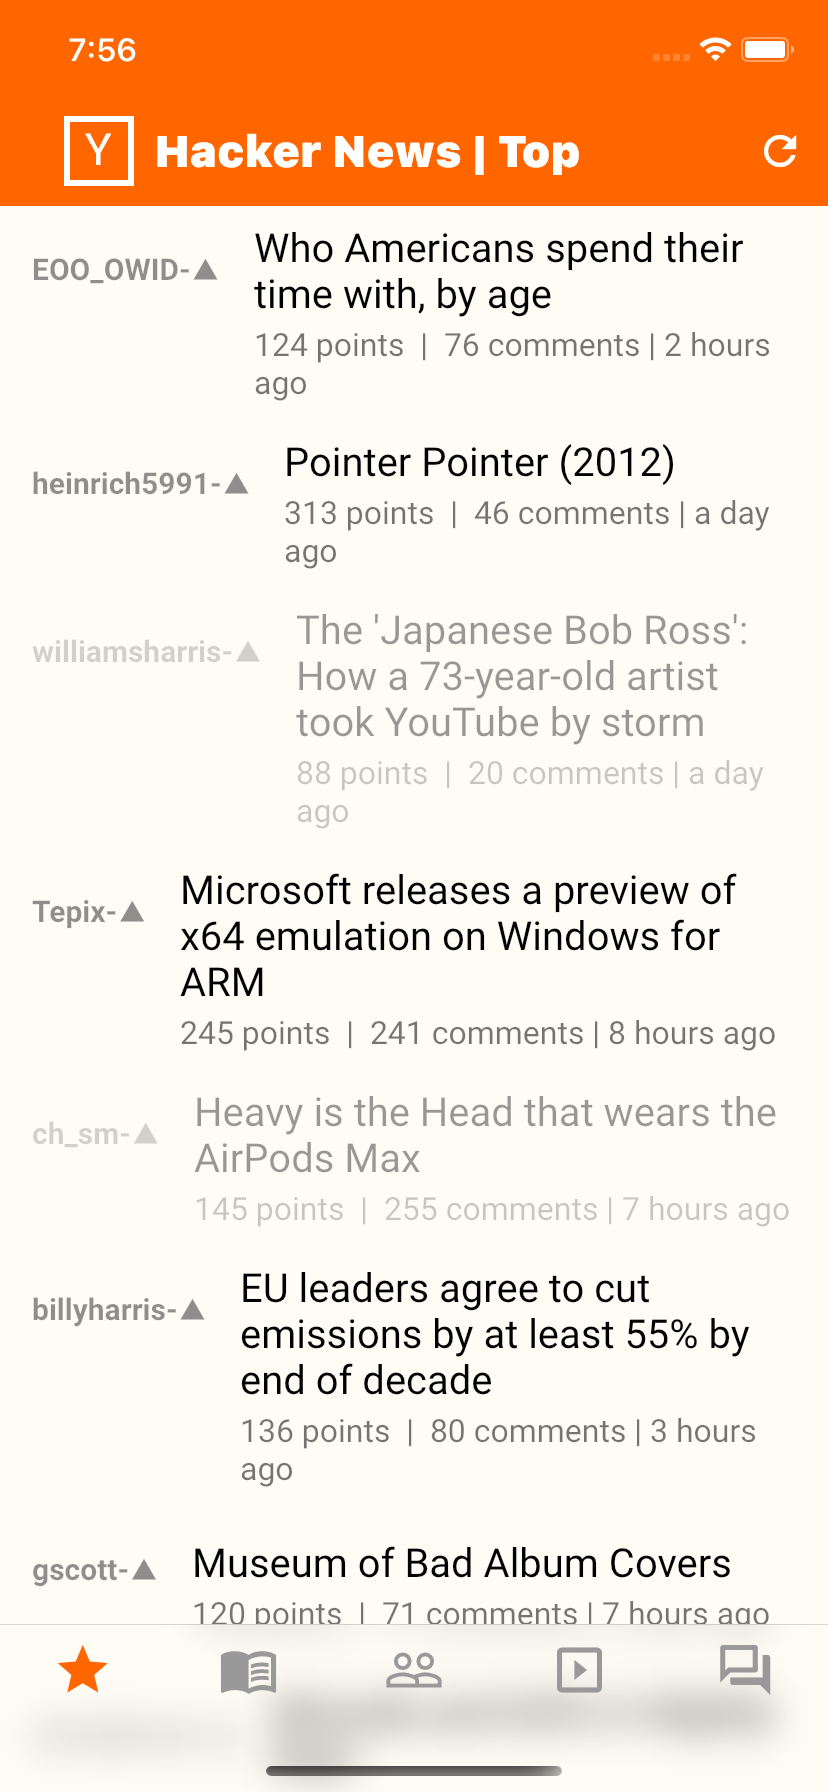
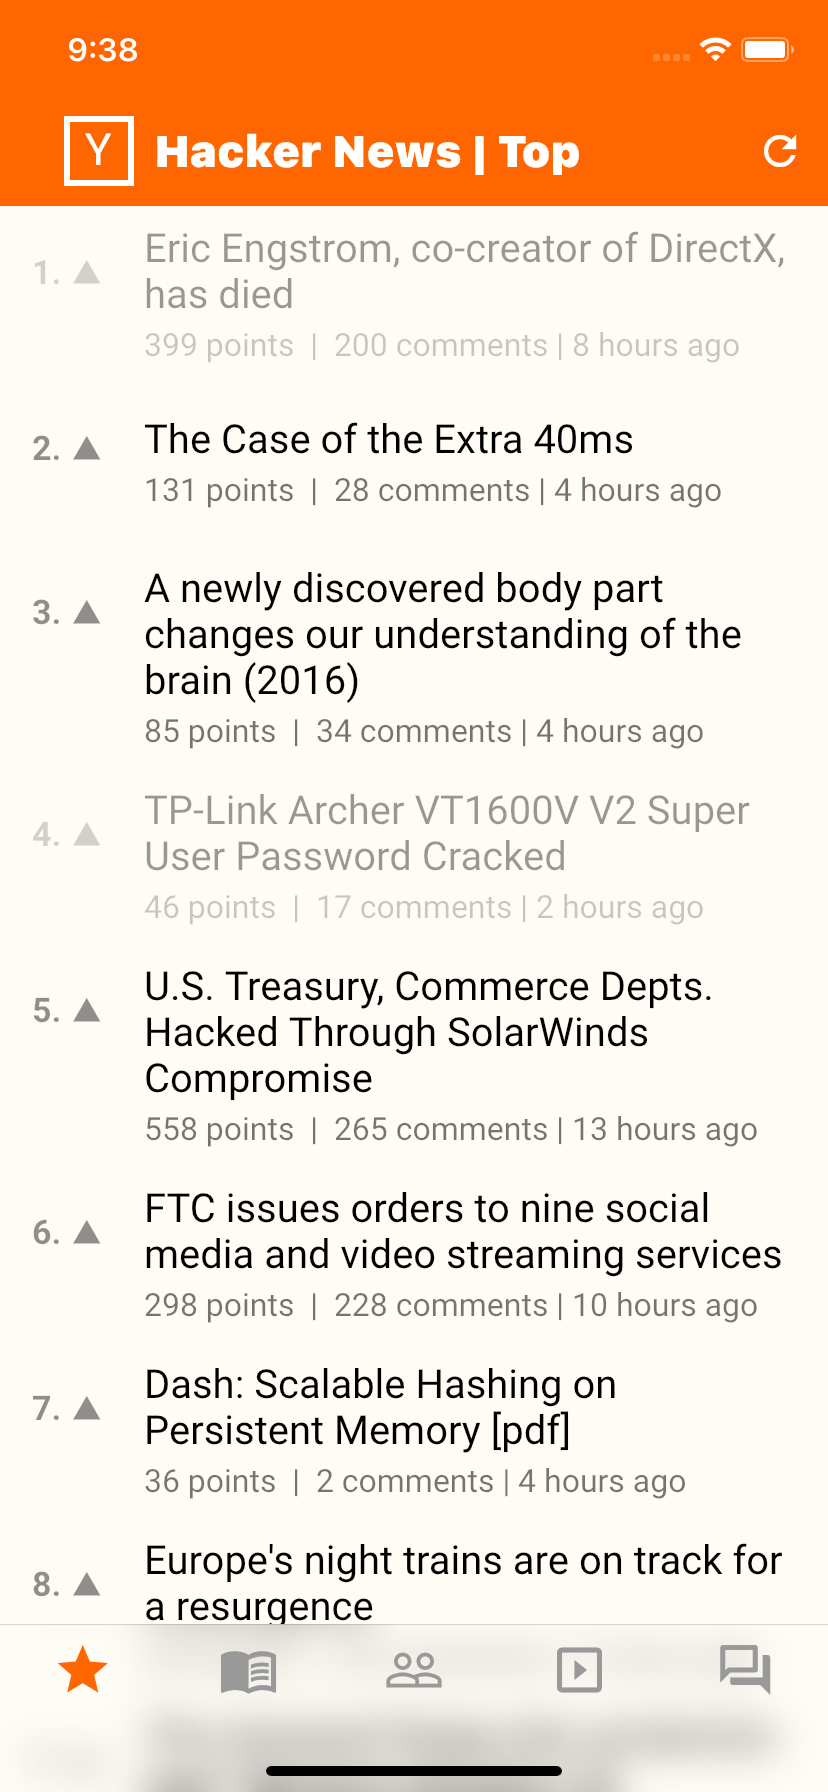
new's number index added

diff --git a/lib/view/widgets/new_card.dart b/lib/view/widgets/new_card.dart
@@ -8,10 +8,12 @@ import 'package:hackernews/core/model/news_item.dart';
 
 class CustomNewCard extends StatefulWidget {
   final NewsItem newsItem;
+  final String numIndex;
 
   CustomNewCard({
     Key key,
     this.newsItem,
+    this.numIndex,
   }) : super(key: key);
 
   @override
@@ -25,6 +27,7 @@ class _CustomNewCardState extends State<CustomNewCard> {
     var date = DateTime.fromMillisecondsSinceEpoch(widget.newsItem.time * 1000);
     return InkWell(
       splashColor: Colors.orange,
+
       ///
       ///
       ///
@@ -41,6 +44,7 @@ class _CustomNewCardState extends State<CustomNewCard> {
           isOpened = true;
         });
       },
+
       ///
       ///
       ///
@@ -100,9 +104,9 @@ class _CustomNewCardState extends State<CustomNewCard> {
     return Opacity(
       opacity: .5,
       child: Text(
-        "${widget.newsItem.by}-▲",
+        "${widget.numIndex}. ▲",
         style: GoogleFonts.roboto(
-          fontSize: 15,
+          fontSize: 17,
           fontWeight: FontWeight.bold,
         ),
       ),

diff --git a/lib/view/screens/home.dart b/lib/view/screens/home.dart
@@ -1,3 +1,5 @@
+import 'dart:async';
+
 import 'package:flutter/material.dart';
 import 'package:hackernews/core/hn_api.dart';
 import 'package:hackernews/core/model/news_item.dart';
@@ -82,6 +84,7 @@ class _HomeState extends State<Home> {
               var item = newsItems[index];
               return CustomNewCard(
                 newsItem: item,
+                numIndex: "${index + 1}",
                 key: Key(item.id.toString()),
               );
             }
@@ -92,6 +95,7 @@ class _HomeState extends State<Home> {
               newsItems[index] = item;
               return CustomNewCard(
                 newsItem: item,
+                numIndex: "${index + 1}",
                 key: Key(item.id.toString()),
               );
             }

diff --git a/README.md b/README.md
@@ -1,16 +1,38 @@
-# hackernews
+# Hacker News Application
 
-A new Flutter project.
+[![License: MIT](https://img.shields.io/npm/l/license?color=red&label=HackerNewsApp&logo=minor&logoColor=black)](https://github.com/angular/angular.js/blob/master/LICENSE)
+[![Twitter: IsmaelSh4](https://img.shields.io/twitter/follow/theiskaa?style=social)](https://twitter.com/theiskaa)
 
-## Getting Started
+Hackernews site's clone application developed with flutter and [hackernews api](https://github.com/HackerNews/API). You can fork that repo and develope more.
+it's fully open source, so this project isn't mine. it's us! let's contribute these project. 
 
-This project is a starting point for a Flutter application.
+## Screenshots
+<img src="https://github.com/theiskaa/hackernews_app/blob/main/assets/screenshots/1.png" width="200">  <img src="https://github.com/theiskaa/hackernews_app/blob/main/assets/screenshots/2.png" width="200">  <img src="https://github.com/theiskaa/hackernews_app/blob/main/assets/screenshots/3.png" width="200">  <img src="https://github.com/theiskaa/hackernews_app/blob/main/assets/screenshots/4.png" width="200">
 
-A few resources to get you started if this is your first Flutter project:
 
-- [Lab: Write your first Flutter app](https://flutter.dev/docs/get-started/codelab)
-- [Cookbook: Useful Flutter samples](https://flutter.dev/docs/cookbook)
+## How to donwload?
+run this commands on terminal
+``` 
+cd Desktop
+git clone https://github.com/theiskaa/hackernews_app
+```
+then you have to run pub get command
+```
+cd hackernews_app 
+flutter pub get
+```
+And then you can run the application
+```
+flutter run
+```
 
-For help getting started with Flutter, view our
-[online documentation](https://flutter.dev/docs), which offers tutorials,
-samples, guidance on mobile development, and a full API reference.
+## Packages i use:
+- [http](https://pub.dev/packages/http)
+- [html](https://pub.dev/packages/html)
+- [firebase: ^5.0.0](https://pub.dev/packages/firebase)
+- [timeago: ^2.0.8](https://pub.dev/packages/math_expressions)
+- [webview_flutter: ^1.0.7](https://pub.dev/packages/webview_flutter)
+- [google_fonts:](https://pub.dev/packages/google_fonts)
+- [flutter_slidable: ^0.5.7](https://pub.dev/packages/flutter_slidable)
+
+##
